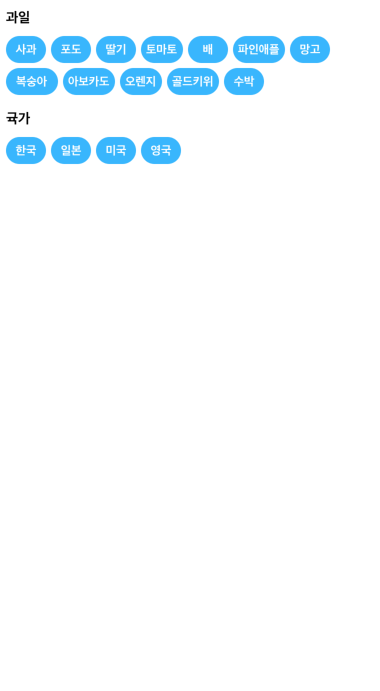
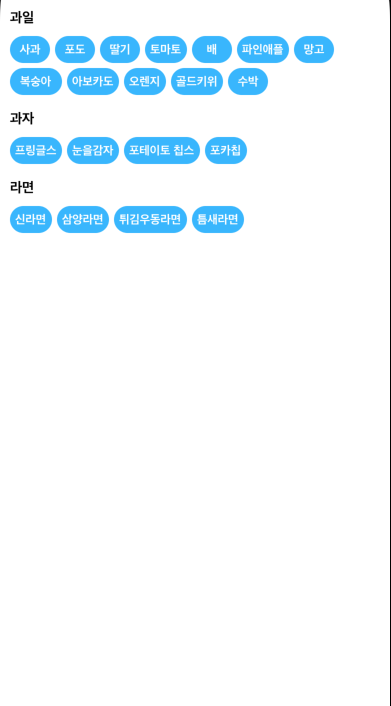
샘플 변경

Changed region(s): [[0.0, 0.0, 0.8684, 0.3343], [0.9842, 0.0, 1.0, 1.0]]

diff --git a/Example/pnxFilterTable/ViewController.swift b/Example/pnxFilterTable/ViewController.swift
@@ -34,10 +34,14 @@ class ViewController: UIViewController {
                                                              PnxFilterData.Data(display:"오렌지", value: "10"),
                                                              PnxFilterData.Data(display:"골드키위", value: "11"),
                                                              PnxFilterData.Data(display:"수박", value: "12")]),
-                        PnxFilterData(title:"귝가", datas: [PnxFilterData.Data(display:"한국", value: "1"),
-                                                             PnxFilterData.Data(display:"일본", value: "2"),
-                                                             PnxFilterData.Data(display:"미국", value: "3"),
-                                                            PnxFilterData.Data(display:"영국", value: "4")])]
+                        PnxFilterData(title:"과자", datas: [PnxFilterData.Data(display:"프링글스", value: "1"),
+                                                             PnxFilterData.Data(display:"눈을감자", value: "2"),
+                                                             PnxFilterData.Data(display:"포테이토 칩스", value: "3"),
+                                                            PnxFilterData.Data(display:"포카칩", value: "4")]),
+                        PnxFilterData(title:"라면", datas: [PnxFilterData.Data(display:"신라면", value: "1"),
+                                                             PnxFilterData.Data(display:"삼양라면", value: "2"),
+                                                             PnxFilterData.Data(display:"튀김우동라면", value: "3"),
+                                                            PnxFilterData.Data(display:"틈새라면", value: "4")])]
         self.pnxFilterTable.isMultipleSelect = true
         self.pnxFilterTable.dataList = dataList
         self.pnxFilterTable.tableView.separatorStyle = .none
